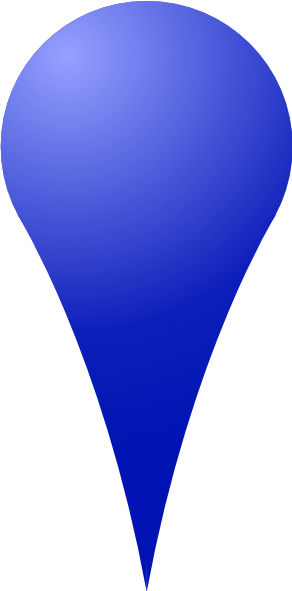
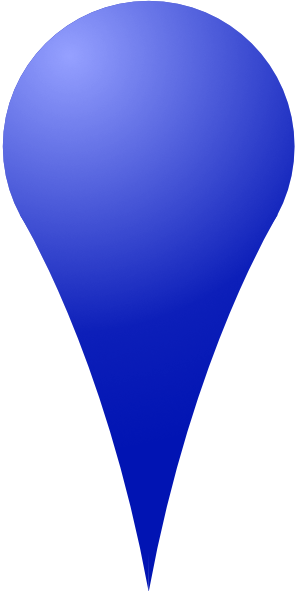
styled accordining to WeChat styles, added pins that are selected. Please review

diff --git a/pages/patient/patient.js b/pages/patient/patient.js
@@ -20,7 +20,7 @@ Page({
           latitude: 22.524689,
           longitude: 113.937271,
           width: 24,
-          height: 28
+          height: 48 //keep to the ratio 2:1
         },
         //位置2
         {
@@ -33,7 +33,7 @@ Page({
           latitude: 22.522807,
           longitude: 113.935338,
           width: 24,
-          height: 28
+          height: 48 //keep to the ratio 2:1
         },
         //位置3
         {
@@ -44,7 +44,7 @@ Page({
           latitude: 22.53535,
           longitude: 113.920322,
           width: 24,
-          height: 28
+          height: 48 //keep to the ratio 2:1
         },
       ]
   },

diff --git a/pages/homepage/homepage.js b/pages/homepage/homepage.js
@@ -62,7 +62,7 @@ Page({
       latitude: user.location.latitude,
       longitude: user.location.longitude,
       width: 24,
-      height: 36
+      height: 48 //keep to the ratio 2:1
     }
     marker.iconPath = this.iconPathColor(marker.status)
     // console.log("marker is", marker)
